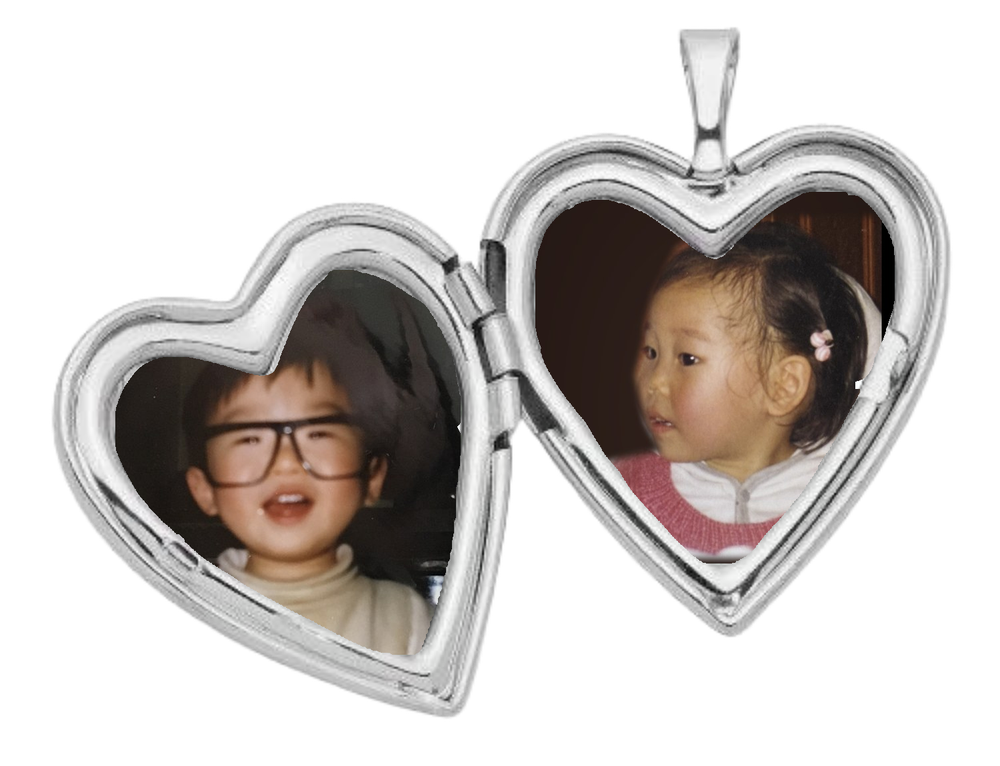
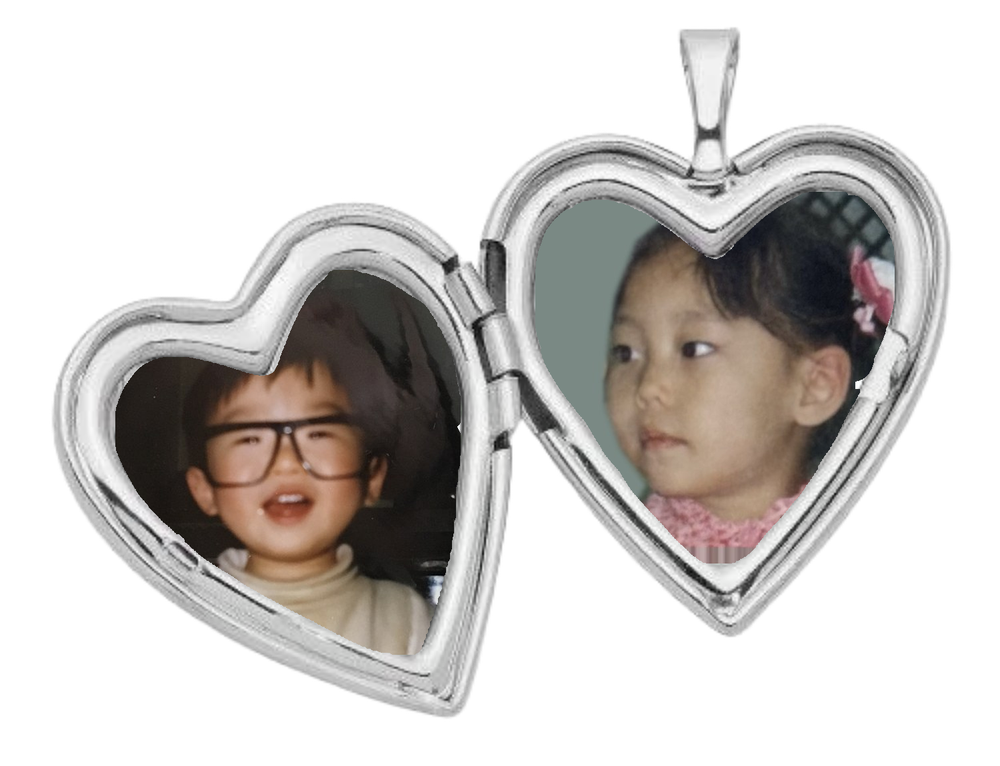
Use baby photo 5 in the right locket, add tools/make_locket.py
The tool lets the locket photos be swapped without editing code.

Changed region(s): [[0.527, 0.2402, 0.899, 0.7507]]

diff --git a/index.html b/index.html
@@ -10,7 +10,7 @@
 <link rel="preconnect" href="https://fonts.googleapis.com">
 <link rel="preconnect" href="https://fonts.gstatic.com" crossorigin>
 <link href="https://fonts.googleapis.com/css2?family=Gaegu:wght@400;700&family=Gowun+Batang:wght@400;700&family=Nothing+You+Could+Do&family=Reenie+Beanie&display=swap" rel="stylesheet">
-<link rel="stylesheet" href="style.css?v=18">
+<link rel="stylesheet" href="style.css?v=19">
 </head>
 <body>
 <main class="wrap">
@@ -28,14 +28,14 @@
   <!-- 2. Our Wedding day -->
   <section class="sec wine day" id="day">
     <h2 class="script big reveal">Our Wedding day</h2>
-    <div class="date-card reveal"><img src="img/card-date.png?v=18" alt="2027년 2월 13일 토요일 오후 12시 10분 원주 빌라드아모르 르블루씨엘홀"><p class="card-venue">원주 빌라드아모르 르블루씨엘홀</p></div>
+    <div class="date-card reveal"><img src="img/card-date.png?v=19" alt="2027년 2월 13일 토요일 오후 12시 10분 원주 빌라드아모르 르블루씨엘홀"><p class="card-venue">원주 빌라드아모르 르블루씨엘홀</p></div>
 
     <p class="parents reveal">
       <span>박금용 · 손선미<em>의 아들</em> <b>상현</b></span>
       <span>이종봉 · 문태숙<em>의 딸</em> <b>가경</b></span>
     </p>
 
-    <div class="locket reveal"><img src="img/locket.png?v=18" alt="신랑신부 로켓 목걸이"></div>
+    <div class="locket reveal"><img src="img/locket.png?v=19" alt="신랑신부 로켓 목걸이"></div>
 
     <div class="tapes reveal">
       <img src="img/tape.png" alt="">
@@ -175,6 +175,6 @@
 
 <div id="lightbox" hidden><button class="lb-close" aria-label="닫기">×</button><button class="lb-prev" aria-label="이전">‹</button><img alt=""><button class="lb-next" aria-label="다음">›</button><div class="lb-count"></div></div>
 <div id="toast" hidden>복사되었어요</div>
-<script src="script.js?v=18"></script>
+<script src="script.js?v=19"></script>
 </body>
 </html>

diff --git a/tools/make_locket.py b/tools/make_locket.py
@@ -1,0 +1,109 @@
+"""
+로켓 목걸이(하트 두 개)에 들어가는 사진을 바꾸는 도구.
+
+사용법 (PowerShell 또는 터미널, 폴더: D:\\coding\\Wedding)
+    python tools/make_locket.py 웨딩사진/아기사진1.jpg 웨딩사진/아기사진5.jpg
+
+  - 첫 번째 사진이 왼쪽 하트, 두 번째 사진이 오른쪽 하트에 들어갑니다.
+  - 얼굴이 하트 안에서 어색하게 잘리면 '자르는 영역'을 직접 지정하세요.
+        --lbox 왼쪽사진에서_자를_영역    --rbox 오른쪽사진에서_자를_영역
+    영역은  x1,y1,x2,y2  (원본 사진 기준 픽셀, 왼쪽위 → 오른쪽아래) 입니다.
+    정사각형에 가깝게, 얼굴이 가운데 오도록 잡으세요. 사진 밖으로 나가도 되며,
+    나간 부분은 가장자리 색으로 채워집니다.
+        예) python tools/make_locket.py a.jpg b.jpg --rbox -100,40,900,1040
+  - 사진 크기는 보통 '이미지 뷰어'에서 마우스를 올리면 표시됩니다.
+  - 결과는 img/locket.png 로 저장되고, index.html 의 캐시 숫자(?v=)도 자동으로 1 올라갑니다.
+    (미리 보고 싶으면 --out 미리보기.png 를 붙이세요. 이때는 사이트 파일을 건드리지 않습니다.)
+
+필요한 것: Python, Pillow, numpy, scipy   (pip install pillow numpy scipy)
+"""
+import argparse
+import os
+import re
+import sys
+
+import numpy as np
+from PIL import Image, ImageFilter, ImageOps
+from scipy import ndimage as ndi
+
+ROOT = os.path.dirname(os.path.dirname(os.path.abspath(__file__)))
+TEMPLATE = os.path.join(ROOT, '배경', '2.png')      # 빈 로켓 이미지 (사진 자리에 풍경이 들어있는 파일)
+
+
+def parse_box(s):
+    if not s:
+        return None
+    v = [int(float(t)) for t in s.split(',')]
+    if len(v) != 4:
+        sys.exit('영역은 x1,y1,x2,y2 네 개 숫자여야 합니다. 예: 100,50,900,850')
+    return v
+
+
+def load(path, box):
+    im = ImageOps.exif_transpose(Image.open(path)).convert('RGB')
+    if box is None:                                   # 지정하지 않으면 가운데 정사각형
+        s = min(im.size)
+        box = [(im.width - s) // 2, (im.height - s) // 2, (im.width + s) // 2, (im.height + s) // 2]
+    x1, y1, x2, y2 = box
+    pad = max(0, -x1, -y1, x2 - im.width, y2 - im.height)
+    if pad:
+        arr = np.pad(np.array(im), ((pad, pad), (pad, pad), (0, 0)), mode='edge')
+        im = Image.fromarray(arr)
+        x1, y1, x2, y2 = x1 + pad, y1 + pad, x2 + pad, y2 + pad
+    return im.crop((x1, y1, x2, y2))
+
+
+def main():
+    ap = argparse.ArgumentParser(description='로켓 목걸이 사진 교체')
+    ap.add_argument('left', help='왼쪽 하트에 넣을 사진')
+    ap.add_argument('right', help='오른쪽 하트에 넣을 사진')
+    ap.add_argument('--lbox', help='왼쪽 사진 자를 영역 x1,y1,x2,y2')
+    ap.add_argument('--rbox', help='오른쪽 사진 자를 영역 x1,y1,x2,y2')
+    ap.add_argument('--out', help='미리보기로만 저장할 파일 (지정하면 사이트 파일은 그대로)')
+    a = ap.parse_args()
+
+    faces = [load(a.left, parse_box(a.lbox)), load(a.right, parse_box(a.rbox))]
+    if not os.path.exists(TEMPLATE):
+        sys.exit(f'빈 로켓 이미지가 없습니다: {TEMPLATE}')
+
+    t = np.array(Image.open(TEMPLATE).convert('RGBA'))
+    r, g, b = [t[..., i].astype(int) for i in range(3)]
+    al = t[..., 3]
+    window = ((g > r + 8) | (b > r + 8)) & (al > 200)             # 사진이 들어갈 자리(풍경 부분)
+    lab, n = ndi.label(ndi.binary_fill_holes(window))
+    boxes = ndi.find_objects(lab)
+    order = sorted(range(n), key=lambda i: boxes[i][1].start)[:2]  # 왼쪽 → 오른쪽
+    if len(order) < 2:
+        sys.exit('로켓 이미지에서 사진 자리 두 곳을 찾지 못했습니다.')
+
+    out = t.copy()
+    for face, i in zip(faces, order):
+        sl = boxes[i]
+        comp = (lab[sl] == i + 1)
+        h, w = comp.shape
+        ph = np.array(ImageOps.fit(face, (w, h), Image.LANCZOS, centering=(.5, .5)))
+        m = np.array(Image.fromarray((comp * 255).astype('uint8')).filter(ImageFilter.MaxFilter(5))) > 0
+        m &= al[sl] > 0
+        reg = out[sl]
+        reg[..., :3][m] = ph[m]
+        reg[..., 3][m] = 255
+    img = Image.fromarray(out)
+    img = img.resize((1000, int(img.height * 1000 / img.width)), Image.LANCZOS)
+
+    if a.out:
+        bg = Image.new('RGBA', img.size, (109, 22, 32, 255))
+        bg.alpha_composite(img)
+        bg.convert('RGB').save(a.out, quality=88)
+        print('미리보기 저장:', a.out)
+        return
+
+    img.save(os.path.join(ROOT, 'img', 'locket.png'), optimize=True)
+    html = os.path.join(ROOT, 'index.html')
+    s = open(html, encoding='utf8').read()
+    s = re.sub(r'\?v=(\d+)', lambda m: f'?v={int(m.group(1)) + 1}', s)
+    open(html, 'w', encoding='utf8').write(s)
+    print('완료: img/locket.png 를 새로 만들었고 캐시 숫자를 올렸습니다.')
+
+
+if __name__ == '__main__':
+    main()
